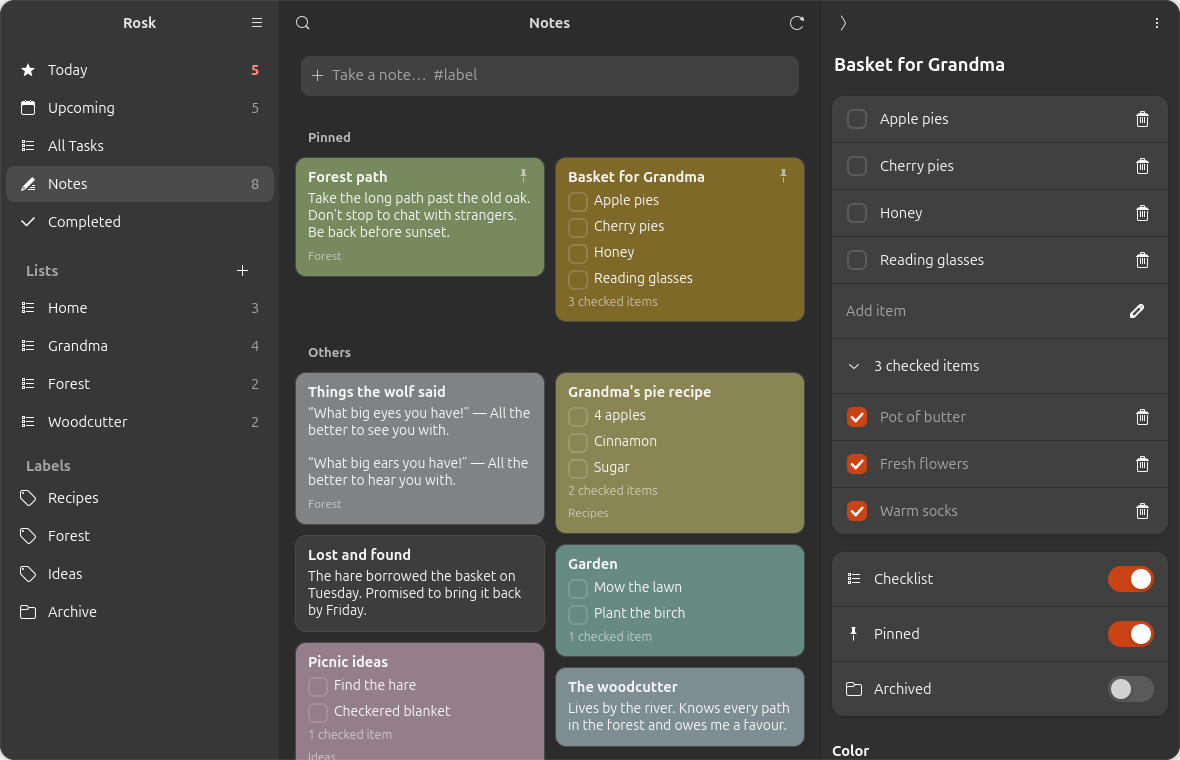
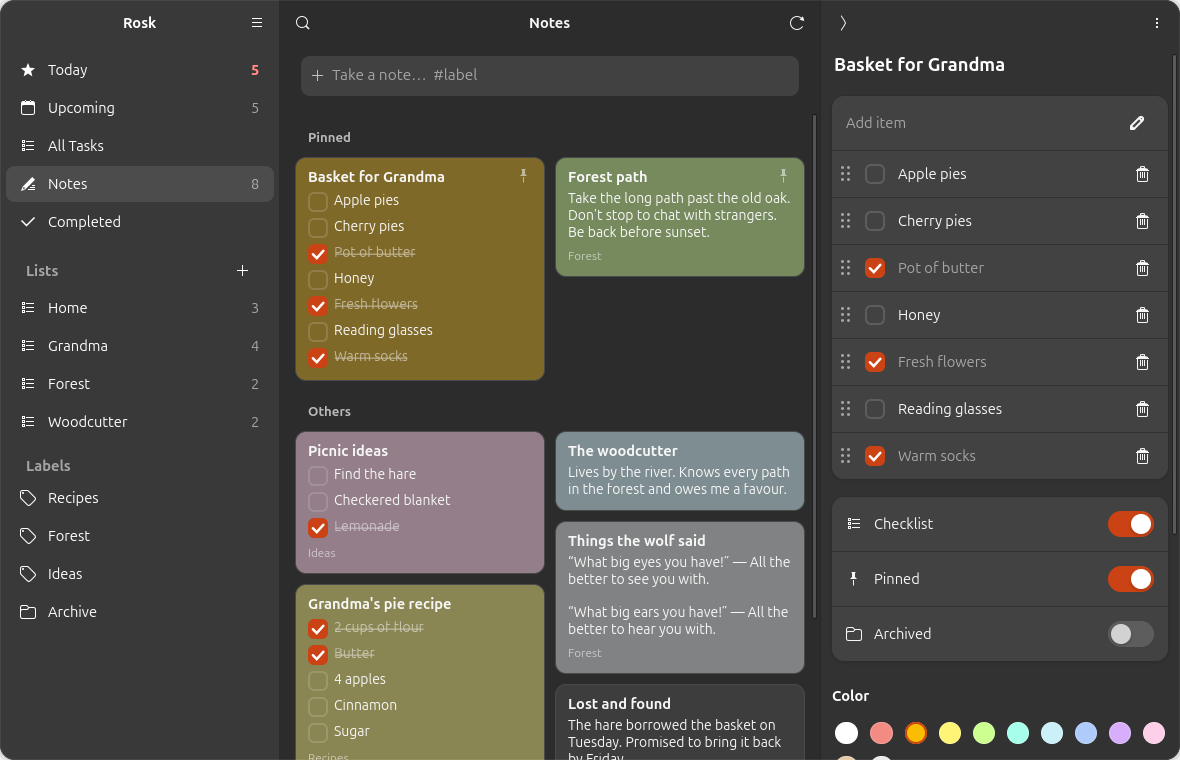
Checklists: keep the items in their own order
Checked items stay in place instead of folding into a separate group, in the
editor and on the cards. The editor has the add row on top, a drag handle on
every item, and Load more at the bottom of long lists.

diff --git a/rosk/ui/style.css b/rosk/ui/style.css
@@ -63,6 +63,7 @@ button.chip { min-height: 0; min-width: 0; }
 .note-card .note-title { font-weight: bold; }
 .note-card .note-body, .note-card .note-item { font-size: 0.95em; }
 .note-card .note-more { font-size: 0.85em; opacity: 0.6; }
+.note-card .note-item-done { text-decoration: line-through; opacity: 0.55; }
 .note-card .note-labels { font-size: 0.8em; opacity: 0.6; margin-top: 4px; }
 .note-card checkbutton.note-check { padding: 0; min-height: 0; }
 .note-card checkbutton.note-check check { min-width: 14px; min-height: 14px; margin: 2px 0 0 0; }

diff --git a/rosk/ui/editor.py b/rosk/ui/editor.py
@@ -3,7 +3,7 @@
 import json
 from datetime import date, timedelta
 
-from gi.repository import Adw, GLib, GObject, Gtk
+from gi.repository import Adw, Gdk, GLib, GObject, Gtk
 
 from ..core import dates
 from ..i18n import _, ngettext
@@ -435,9 +435,20 @@ class Editor(Gtk.Box):
                              body="\n".join(e.get("text", "") for e in entries))
         GLib.idle_add(lambda: (self.load(self.item_id), False)[1])
 
+    CHECK_PAGE = 30  # items shown before "Load more"
+
     def _check_row(self, idx, entry):
         row = Gtk.ListBoxRow(activatable=False)
-        h = Gtk.Box(spacing=8, margin_start=10, margin_end=6, margin_top=4, margin_bottom=4)
+        h = Gtk.Box(spacing=8, margin_start=4, margin_end=6, margin_top=4, margin_bottom=4)
+        handle = Gtk.Image.new_from_icon_name("list-drag-handle-symbolic")
+        handle.add_css_class("dim-label")
+        handle.set_cursor_from_name("grab")
+        handle.set_tooltip_text(_("Drag to move"))
+        src = Gtk.DragSource(actions=Gdk.DragAction.MOVE)
+        src.connect("prepare", lambda *_a: Gdk.ContentProvider.new_for_value(f"check:{idx}"))
+        src.connect("drag-begin", lambda s, _d: s.set_icon(Gtk.WidgetPaintable.new(row), 20, 20))
+        handle.add_controller(src)
+        h.append(handle)
         cb = Gtk.CheckButton(active=bool(entry.get("checked")))
         cb.connect("toggled", self._check_toggled, idx)
         h.append(cb)
@@ -452,45 +463,60 @@ class Editor(Gtk.Box):
         rm.connect("clicked", self._check_remove, idx)
         h.append(rm)
         row.set_child(h)
+        target = Gtk.DropTarget.new(GObject.TYPE_STRING, Gdk.DragAction.MOVE)
+        target.connect("drop", self._check_drop, row, idx)
+        row.add_controller(target)
+        self._check_entry_widgets[idx] = e
         return row
 
     def _fill_checklist(self):
-        """Like Keep: unchecked items, the add row, then checked items folded away."""
+        """The items in their own order, checked ones included: the add row on top,
+        "Load more" at the bottom when the list is long."""
         box = self.check_box
         while (child := box.get_first_child()) is not None:
             box.remove(child)
-        checked = []
-        for idx, entry in enumerate(self.check_entries):
-            if entry.get("checked"):
-                checked.append((idx, entry))
-            else:
-                box.append(self._check_row(idx, entry))
+        self._check_entry_widgets = {}
         add = Adw.EntryRow(title=_("Add item"))
         add.connect("entry-activated", self._check_add)
         box.append(add)
         self._check_add_row = add
-        if checked:
-            show = getattr(self, "_show_checked", False)
-            toggle = Adw.ActionRow(
-                title=ngettext("{} checked item", "{} checked items", len(checked)).format(len(checked)),
-                activatable=True)
-            toggle.add_prefix(Gtk.Image.new_from_icon_name(
-                "pan-down-symbolic" if show else "pan-end-symbolic"))
-            toggle.connect("activated", self._toggle_checked)
-            box.append(toggle)
-            if show:
-                for idx, entry in checked:
-                    box.append(self._check_row(idx, entry))
+        limit = getattr(self, "_check_limit", self.CHECK_PAGE)
+        for idx, entry in enumerate(self.check_entries[:limit]):
+            box.append(self._check_row(idx, entry))
+        rest = len(self.check_entries) - limit
+        if rest > 0:
+            more = Adw.ButtonRow(title=_("Load more ({})").format(rest))
+            more.connect("activated", self._check_more)
+            box.append(more)
 
-    def _toggle_checked(self, *_a):
-        self._show_checked = not getattr(self, "_show_checked", False)
+    def _check_more(self, *_a):
+        self._check_limit = getattr(self, "_check_limit", self.CHECK_PAGE) + self.CHECK_PAGE
         self._fill_checklist()
 
     def _check_toggled(self, cb, idx):
         self.check_entries[idx]["checked"] = cb.get_active()
+        e = self._check_entry_widgets.get(idx)
+        if e is not None:
+            (e.add_css_class if cb.get_active() else e.remove_css_class)("dim-label")
         self._save_checklist()
-        # move the item between the groups once the click animation has played
-        GLib.timeout_add(250, lambda: (self._fill_checklist(), False)[1])
+
+    def _check_drop(self, _t, value, _x, y, row, dst):
+        if not isinstance(value, str) or not value.startswith("check:"):
+            return False
+        src = int(value[6:])
+        if not 0 <= src < len(self.check_entries):
+            return False
+        pos = dst if y < row.get_height() / 2 else dst + 1
+        entry = self.check_entries.pop(src)
+        if src < pos:
+            pos -= 1
+        if pos == src:
+            self.check_entries.insert(src, entry)
+            return False
+        self.check_entries.insert(pos, entry)
+        self._fill_checklist()
+        self._save_checklist()
+        return True
 
     def _check_text(self, e, idx):
         self.check_entries[idx]["text"] = e.get_text()
@@ -505,7 +531,8 @@ class Editor(Gtk.Box):
         text = row.get_text().strip()
         if not text:
             return
-        self.check_entries.append({"text": text, "checked": False})
+        self.check_entries.insert(0, {"text": text, "checked": False})
+        row.set_text("")
         self._fill_checklist()
         self._save_checklist.flush() if self._save_checklist.src else None
         self._commit_checklist()

diff --git a/rosk/ui/widgets.py b/rosk/ui/widgets.py
@@ -192,26 +192,27 @@ class NoteCard(Gtk.Box):
         return label
 
     def _checklist(self, entries):
-        unchecked = [(i, e) for i, e in enumerate(entries) if not e.get("checked")]
-        checked = len(entries) - len(unchecked)
-        for idx, entry in unchecked[:MAX_CARD_ITEMS]:
+        """The first items in their own order, checked ones included, like the editor."""
+        for idx, entry in enumerate(entries[:MAX_CARD_ITEMS]):
             row = Gtk.Box(spacing=6)
-            cb = Gtk.CheckButton(valign=Gtk.Align.START)
+            cb = Gtk.CheckButton(valign=Gtk.Align.START, active=bool(entry.get("checked")))
             cb.add_css_class("note-check")
             cb.connect("toggled", self._on_check, idx)
             row.append(cb)
-            row.append(self._label(entry.get("text", ""), "note-item", lines=2, hexpand=True))
+            label = self._label(entry.get("text", ""), "note-item", lines=2, hexpand=True)
+            if entry.get("checked"):
+                label.add_css_class("note-item-done")
+            row.append(label)
             self.append(row)
-        more = len(unchecked) - MAX_CARD_ITEMS
+        more = len(entries) - MAX_CARD_ITEMS
         if more > 0:
             self.append(self._label(_("+ {} more").format(more), "note-more"))
-        if checked:
-            self.append(self._label(ngettext("{} checked item", "{} checked items", checked)
-                                    .format(checked), "note-more"))
 
     def _on_check(self, cb, idx):
         entries = json.loads(self.item["checklist_json"])
         entries[idx]["checked"] = cb.get_active()
+        label = cb.get_next_sibling()
+        (label.add_css_class if cb.get_active() else label.remove_css_class)("note-item-done")
         self.item["checklist_json"] = json.dumps(entries, ensure_ascii=False)
         self.emit("checklist-changed", self.item["checklist_json"])
 

diff --git a/README.ru.md b/README.ru.md
@@ -39,11 +39,11 @@ GNOME, главное в нём — скорость и краткость: за
 </tr>
 <tr>
 <td width="50%" align="center" valign="top">
-<img src="docs/screenshots/notes.png?v=2" alt="Заметки"><br>
+<img src="docs/screenshots/notes.png?v=3" alt="Заметки"><br>
 <em>Заметки Google Keep: закреплённые и цветные</em>
 </td>
 <td width="50%" align="center" valign="top">
-<img src="docs/screenshots/notes-light.png?v=2" alt="Заметки, светлая тема"><br>
+<img src="docs/screenshots/notes-light.png?v=3" alt="Заметки, светлая тема"><br>
 <em>Заметки в светлой теме</em>
 </td>
 </tr>
@@ -53,8 +53,8 @@ GNOME, главное в нём — скорость и краткость: за
 <em>Списки, подзадачи и панель редактирования</em>
 </td>
 <td width="50%" align="center" valign="top">
-<img src="docs/screenshots/note-editor.png?v=2" alt="Редактирование заметки-списка"><br>
-<em>Списки с флажками: отмеченное сворачивается, как в Keep</em>
+<img src="docs/screenshots/note-editor.png?v=3" alt="Редактирование заметки-списка"><br>
+<em>Списки с флажками в своём порядке, пункты перетаскиваются</em>
 </td>
 </tr>
 <tr>

diff --git a/README.md b/README.md
@@ -39,11 +39,11 @@ seconds, and checking it off even less.
 </tr>
 <tr>
 <td width="50%" align="center" valign="top">
-<img src="docs/screenshots/notes.png?v=2" alt="Notes"><br>
+<img src="docs/screenshots/notes.png?v=3" alt="Notes"><br>
 <em>Google Keep notes, pinned and colored</em>
 </td>
 <td width="50%" align="center" valign="top">
-<img src="docs/screenshots/notes-light.png?v=2" alt="Notes, light style"><br>
+<img src="docs/screenshots/notes-light.png?v=3" alt="Notes, light style"><br>
 <em>Notes in the light style</em>
 </td>
 </tr>
@@ -53,8 +53,8 @@ seconds, and checking it off even less.
 <em>Lists, subtasks and the editor pane</em>
 </td>
 <td width="50%" align="center" valign="top">
-<img src="docs/screenshots/note-editor.png?v=2" alt="Editing a checklist note"><br>
-<em>Checklists: checked items fold away, like in Keep</em>
+<img src="docs/screenshots/note-editor.png?v=3" alt="Editing a checklist note"><br>
+<em>Checklists keep their order; drag items to move them</em>
 </td>
 </tr>
 <tr>
